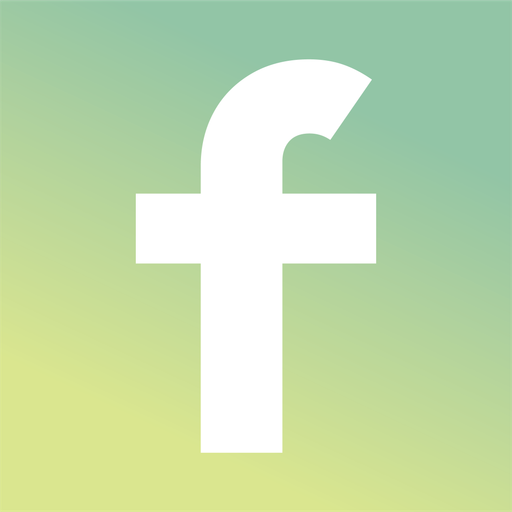
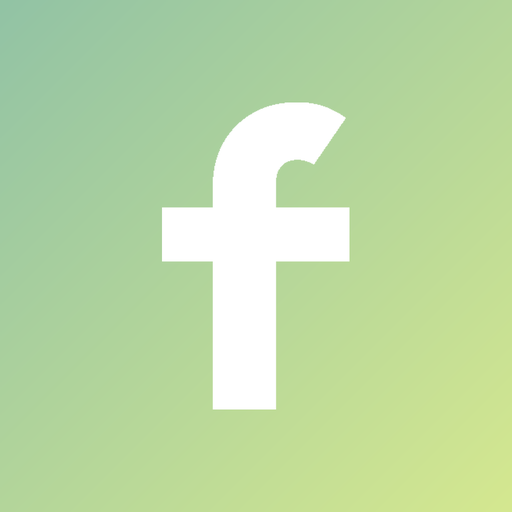
v1.0.3: rebrand íconos + splash + arquitectura de docs
Íconos (Play Store + homescreen Android):
- Master único `icon-master.png` (gradient auth + 'f') como source of truth
- Resizeados a 6 tamaños para /public/ (192, 512, 1024, maskable 192/512, playstore 512)
- Cambio visual: del gradient pastel pre-v1.0.3 (parecía Facebook) al auth gradient saturado

Splash screen TWA:
- Wordmark blanco "fiza" centrado en bg #92C3A5 (stop del auth gradient)
- Antes era 'f' chiquita sobre verde brand #578466 sólido
- Web app sin cambios — solo el splash del shell Android

Arquitectura de docs:
- APPSPEC.md → AGENT_BRIEF.md (renombrado para no confundir con spec gordo)
- CLAUDE.md: sección nueva "Arquitectura de docs" con mapa de las 5 capas + reglas anti-bloat y anti-stale
- Pendiente in-repo: assets ya en /public/, pero el .aab vive out-of-repo (android-keystore/)

diff --git a/CLAUDE.md b/CLAUDE.md
@@ -70,3 +70,105 @@ Formato:
 Por qué vive fuera del repo: es memoria interna del proyecto para el ingeniero
 + agente, no producto. Mezclarlo al repo confundiría a futuros contribuidores
 haciéndoles pensar que es un documento público de release notes.
+
+---
+
+## Arquitectura de docs (regla a nivel proyecto)
+
+Este proyecto tiene **5 capas de documentación** con propósitos distintos.
+Antes de escribir o editar cualquier `.md`, identifica en qué capa cae y
+escribe SOLO ahí. Duplicar info entre capas genera bloat, tech debt de docs,
+y eventualmente contradicciones cuando una capa se actualiza y la otra no.
+
+### Mapa de capas
+
+| # | Archivo | Ubicación | Audiencia | Cuándo se actualiza |
+|---|---|---|---|---|
+| 1 | `Fiza_APP_SPEC v1.0. 260526.md` | out-of-repo (`App Finanzas Pymes/`) | Humano + agente para deep-dive | Solo en bumps mayores del spec (raro) |
+| 2 | `Fiza_CHANGELOG.md` | out-of-repo (`App Finanzas Pymes/`) | Humano + agente | **Cada cambio relevante** — feature, bug fix user-visible, refactor |
+| 3 | `AGENT_BRIEF.md` | in-repo (`finanzas-facil/`) | Agente cold-start | Cuando cambian reglas operativas o se hace version bump |
+| 4 | `CLAUDE.md` + `AGENTS.md` | in-repo (`finanzas-facil/`) | Agente | Cuando cambian protocolos / reglas de trabajo |
+| 5 | `android-keystore/README.md` | out-of-repo (`App Finanzas Pymes/android-keystore/`) | Humano + agente operando builds | Cuando cambia workflow de build / sign / version bump del TWA |
+
+### Qué va en cada capa (anti-duplicación)
+
+**1 — Spec mayor (`Fiza_APP_SPEC`)** — la "biblia" del producto.
+- Decisiones de diseño profundas (por qué cada feature existe, qué problema resuelve).
+- Arquitectura técnica (esquemas DB, flow de auth, modelo de datos).
+- Comportamiento esperado de cada feature.
+- NO va: changelog de cada cambio (eso es capa 2), comandos shell (eso es capa 5).
+- Update: solo en bumps mayores del spec. Si solo cambió código menor, no toques esto.
+
+**2 — Changelog (`Fiza_CHANGELOG`)** — la memoria corriente.
+- Cada cambio relevante por versión, en bullets concisos.
+- Referencias a paths/funciones afectados.
+- Bloque "en progreso" arriba con dos sub-secciones: (A) pendientes técnicos must-do, (B) ideas a evaluar.
+- NO va: re-explicación de decisiones que ya están en el spec, reglas de trabajo (eso es capa 4).
+- Update: cada vez que se shipea algo. No esperar al final del bump de spec.
+
+**3 — Agent brief (`AGENT_BRIEF.md`)** — TL;DR para cold-start.
+- Resumen ultra condensado del estado actual del producto (1-2 párrafos por versión reciente).
+- Cheatsheet operativo: reglas de Next 16 quirks, no emojis, catálogo de categorías, etc.
+- Pointers a los otros docs (spec gordo, changelog, README de TWA).
+- NO va: detalles profundos (eso es capa 1), changelog por commit (eso es capa 2), comandos shell de build (eso es capa 5).
+- Update: cuando un agente cold-start ya no podría empezar sin saber X. Si tienes que añadir más de 2 párrafos a este archivo, considera si el contenido pertenece al spec gordo en su lugar.
+
+**4 — Reglas de agente (`CLAUDE.md` + `AGENTS.md`)** — cómo trabajar.
+- Protocolos: idioma, changelog, commits, formato de respuesta.
+- Arquitectura de docs (esta sección).
+- Decisiones de framework que afectan TODO el código (ej. "Next.js 16 tiene breaking changes").
+- NO va: estado del producto, lista de features, comandos one-off.
+- Update: solo cuando cambian las reglas de trabajo, no cuando cambia el producto.
+
+**5 — README de TWA (`android-keystore/README.md`)** — operación del build Android.
+- Workflow paso a paso para rebuild + sign del .aab.
+- Variables de entorno requeridas (JAVA_HOME, ANDROID_HOME).
+- Datos del keystore + backups.
+- Troubleshooting de builds.
+- NO va: cambios del producto web (capa 2), decisiones de UX del app (capa 1).
+- Update: cuando el workflow cambia (env vars distintas, paths nuevos, pasos extra).
+
+### Reglas anti-bloat
+
+1. **Una idea, un lugar.** Si una decisión vive en capa 1, no la repitas en 3.
+   Pointer cruzado sí ("ver Fiza_APP_SPEC sección X"), copy-paste no.
+
+2. **Si dudas dónde escribir, escribe en capa 2 (changelog).** Es la capa más
+   barata de mantener. Si después se vuelve canónica, promuévela al spec.
+   Mejor un changelog largo que un spec contradictorio.
+
+3. **No agregues archivos nuevos sin razón.** Si vas a escribir `NOTES.md`,
+   `TODO.md`, `PLAN.md`, `IDEAS.md`, etc. — para. Esa info cabe en una sección
+   del changelog (bloque "en progreso") o del agent brief.
+
+4. **Renombrar > borrar.** Si un archivo se vuelve obsoleto, evalúa renombrarlo
+   con un prefijo `OLD_` o moverlo a `archive/` antes de borrar. La historia
+   importa.
+
+5. **Cuando agregas info nueva a una capa, revisa si invalida algo en otra.**
+   Ejemplo: si cambias el workflow de build (capa 5), checa si el agent brief
+   (capa 3) cita el workflow viejo en algún lado.
+
+### Reglas anti-stale
+
+1. **Version bump → barrido obligatorio.** Cuando bumpeas versión del producto
+   (ej. v1.0 → v1.1), revisa las 5 capas: actualiza la versión actual en
+   spec + agent brief, mueve pendientes resueltos del changelog "en progreso"
+   a la sección de esa versión.
+
+2. **Si descubres un detalle operativo nuevo (ej. una env var que faltaba en
+   un README), actualiza el doc INMEDIATAMENTE.** Si te dices "luego lo
+   apunto", garantizado que el siguiente tú lo va a redescubrir.
+
+3. **Las versiones actuales NO viven en múltiples lugares.** El agent brief
+   cita "v1.0.3 — en testing" en su header. El spec dice "v1.0 publicada".
+   Esos dos pueden coexistir porque marcan cosas distintas (release shipped vs
+   spec doc version). Pero NO debe haber 3 archivos diciendo "la versión
+   actual es X" con valores distintos.
+
+### Excepciones razonables
+
+- Scripts one-off (`generate-assets-vX.py`) pueden tener su propio doc inline
+  en el header del archivo. No necesitan README aparte.
+- Migraciones SQL pueden tener un comentario `-- Por qué este migration:` arriba
+  en vez de un doc separado.

diff --git a/AGENT_BRIEF.md b/AGENT_BRIEF.md
@@ -1,9 +1,28 @@
-# Fiza — App Spec
+# Fiza — Agent Brief
 
-> **La spec viva está fuera del repo**, en la carpeta del proyecto.
+> **Este archivo NO es la spec del producto.** Es el TL;DR + cheatsheet operativo
+> que un agente cold-start lee antes de tocar código. La spec real (250 KB) vive
+> out-of-repo — si necesitas el detalle profundo, ábrela.
 >
-> Versión actual: **v1.0** (mayo 26, 2026) 🚀 — Listo para Play Store
-> Archivo: `C:\Users\arome\Documents - Local\App Finanzas Pymes\Fiza_APP_SPEC v1.0. 260526.md`
+> **Renombrado de `APPSPEC.md` → `AGENT_BRIEF.md` (30 mayo 2026)** para diferenciarlo
+> del spec gordo y dejar claro que su audiencia es el agente, no documentación
+> formal de producto.
+>
+> ## Capas de documentación (lee `CLAUDE.md` → sección "Arquitectura de docs" para detalle completo)
+>
+> | Layer | Archivo | Audiencia | Frecuencia update |
+> |---|---|---|---|
+> | Spec mayor | `Fiza_APP_SPEC v1.0. 260526.md` (out-of-repo, 250 KB) | Humano + agente para deep-dive | Solo bumps mayores |
+> | Changelog corriente | `Fiza_CHANGELOG.md` (out-of-repo, 70 KB) | Humano + agente | Cada cambio relevante |
+> | Agent brief | **este archivo** (`AGENT_BRIEF.md`, in-repo, ~14 KB) | Agente cold-start | Cuando cambian reglas operativas o se hace version bump |
+> | Reglas de agente | `CLAUDE.md` (in-repo) | Agente | Cuando cambian protocolos |
+> | Build TWA Android | `android-keystore/README.md` (out-of-repo) | Humano + agente operando builds | Cuando cambia workflow de build/sign |
+>
+> ## Versión actual del producto
+>
+> **v1.0.3** (30 mayo 2026) — Internal/Closed Testing en Google Play.
+> Versión publicada de la spec gorda: **v1.0** (26 mayo 2026) 🚀
+> Spec gorda: `C:\Users\arome\Documents - Local\App Finanzas Pymes\Fiza_APP_SPEC v1.0. 260526.md`
 >
 > **v1.0 — Listo para Google Play Store (TWA)**: milestone. Fiza pasa de web app a app publicable en Android via Trusted Web Activity (Bubblewrap). Decisión: usar excepción "Business Management Software" de Google Play Payments Policy — Stripe sigue funcionando, NO migramos a Play Billing. Comparables: Xero, QuickBooks, FreshBooks, Wave.
 >
